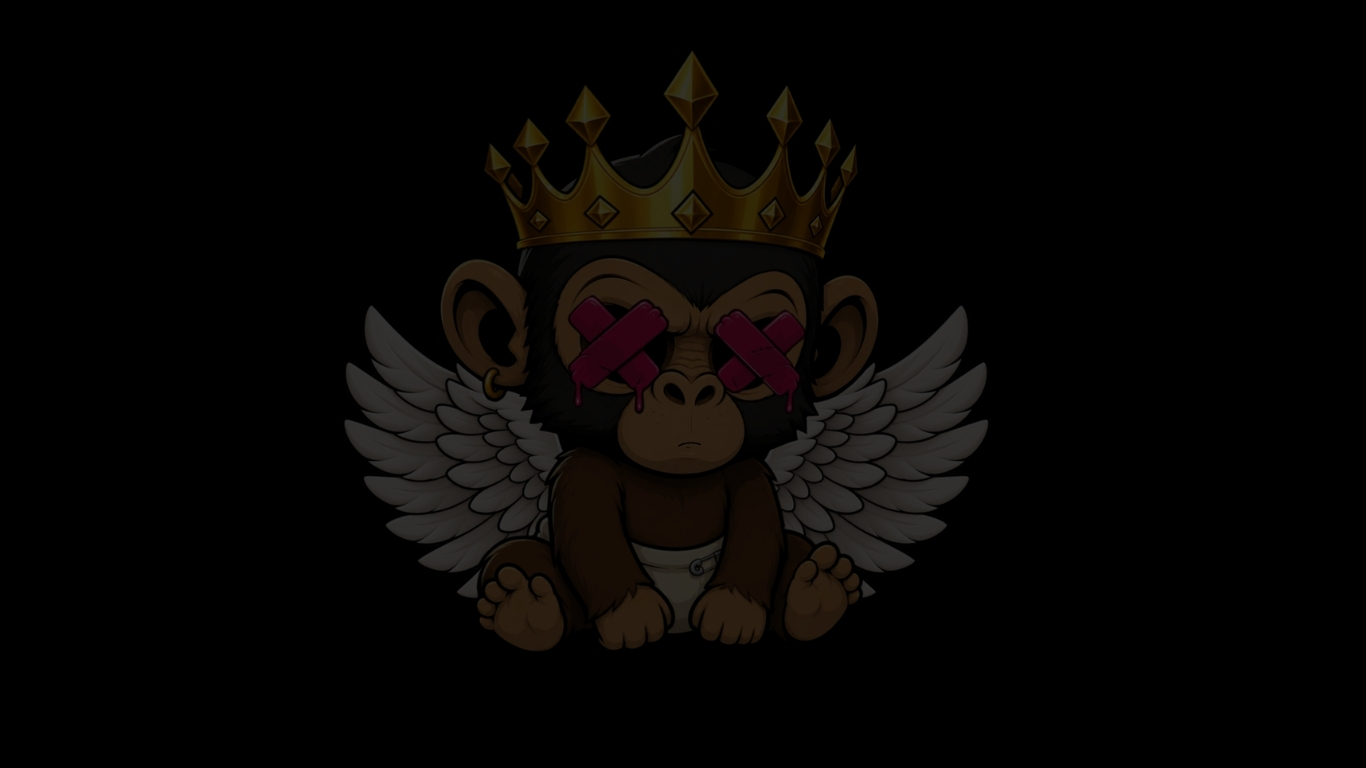
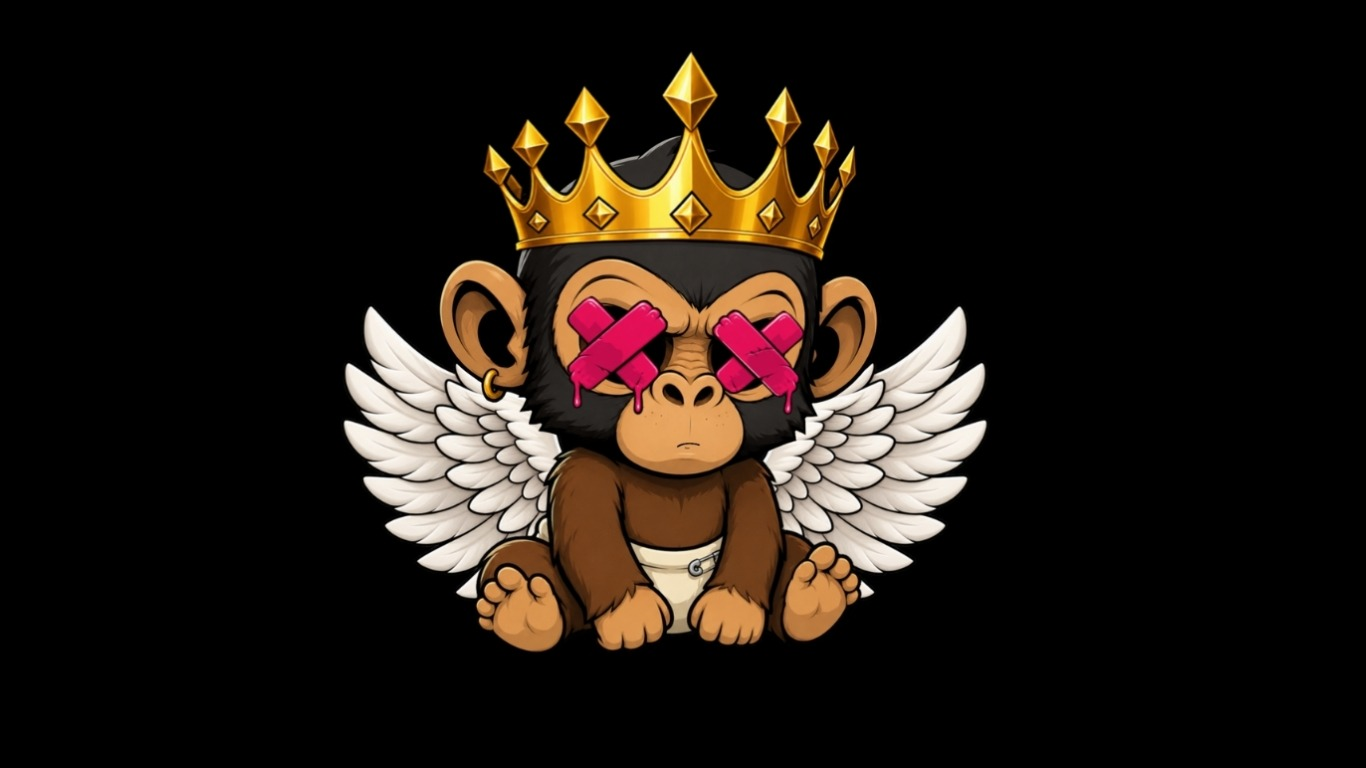
Preview 2: rebuild faded desktop art for Juice, Juicebags, B3BS, MNK1SH from full-brightness artwork

Changed region(s): [[0.246, 0.0625, 0.7379, 0.8438]]

diff --git a/css/preview2.css b/css/preview2.css
@@ -135,10 +135,10 @@ body.p2 {
 .p2-page--blunana   { background-image: url('/assets/preview2/blunana-landscape.jpg'); }
 .p2-page--lp        { background-image: url('/assets/preview2/lp-landscape.jpg'); }
 .p2-page--utility   { background-image: url('/assets/preview2/utility-landscape.jpg'); }
-.p2-page--juice     { background-image: url('/assets/preview2/juice-landscape.jpg'); }
-.p2-page--juicebags { background-image: url('/assets/preview2/juicebags-landscape.jpg'); }
-.p2-page--b3bs      { background-image: url('/assets/preview2/b3bs-landscape.jpg'); }
-.p2-page--mnk1sh    { background-image: url('/assets/preview2/mnk1sh-landscape.jpg'); }
+.p2-page--juice     { background-image: url('/assets/preview2/juice-landscape.jpg?v=2'); }
+.p2-page--juicebags { background-image: url('/assets/preview2/juicebags-landscape.jpg?v=2'); }
+.p2-page--b3bs      { background-image: url('/assets/preview2/b3bs-landscape.jpg?v=2'); }
+.p2-page--mnk1sh    { background-image: url('/assets/preview2/mnk1sh-landscape.jpg?v=2'); }
 .p2-page--partners  { background-image: none; }
 
 .p2-page__content {

diff --git a/preview2/index.html b/preview2/index.html
@@ -18,7 +18,7 @@
   <link rel="preconnect" href="https://fonts.googleapis.com" />
   <link rel="preconnect" href="https://fonts.gstatic.com" crossorigin />
   <link href="https://fonts.googleapis.com/css2?family=IBM+Plex+Mono:wght@400;500&family=Poppins:wght@600;700;800&display=swap" rel="stylesheet" />
-  <link rel="stylesheet" href="/css/preview2.css?v=54" />
+  <link rel="stylesheet" href="/css/preview2.css?v=55" />
 </head>
 <body class="p2">
   <header class="p2-nav" id="p2-nav">
